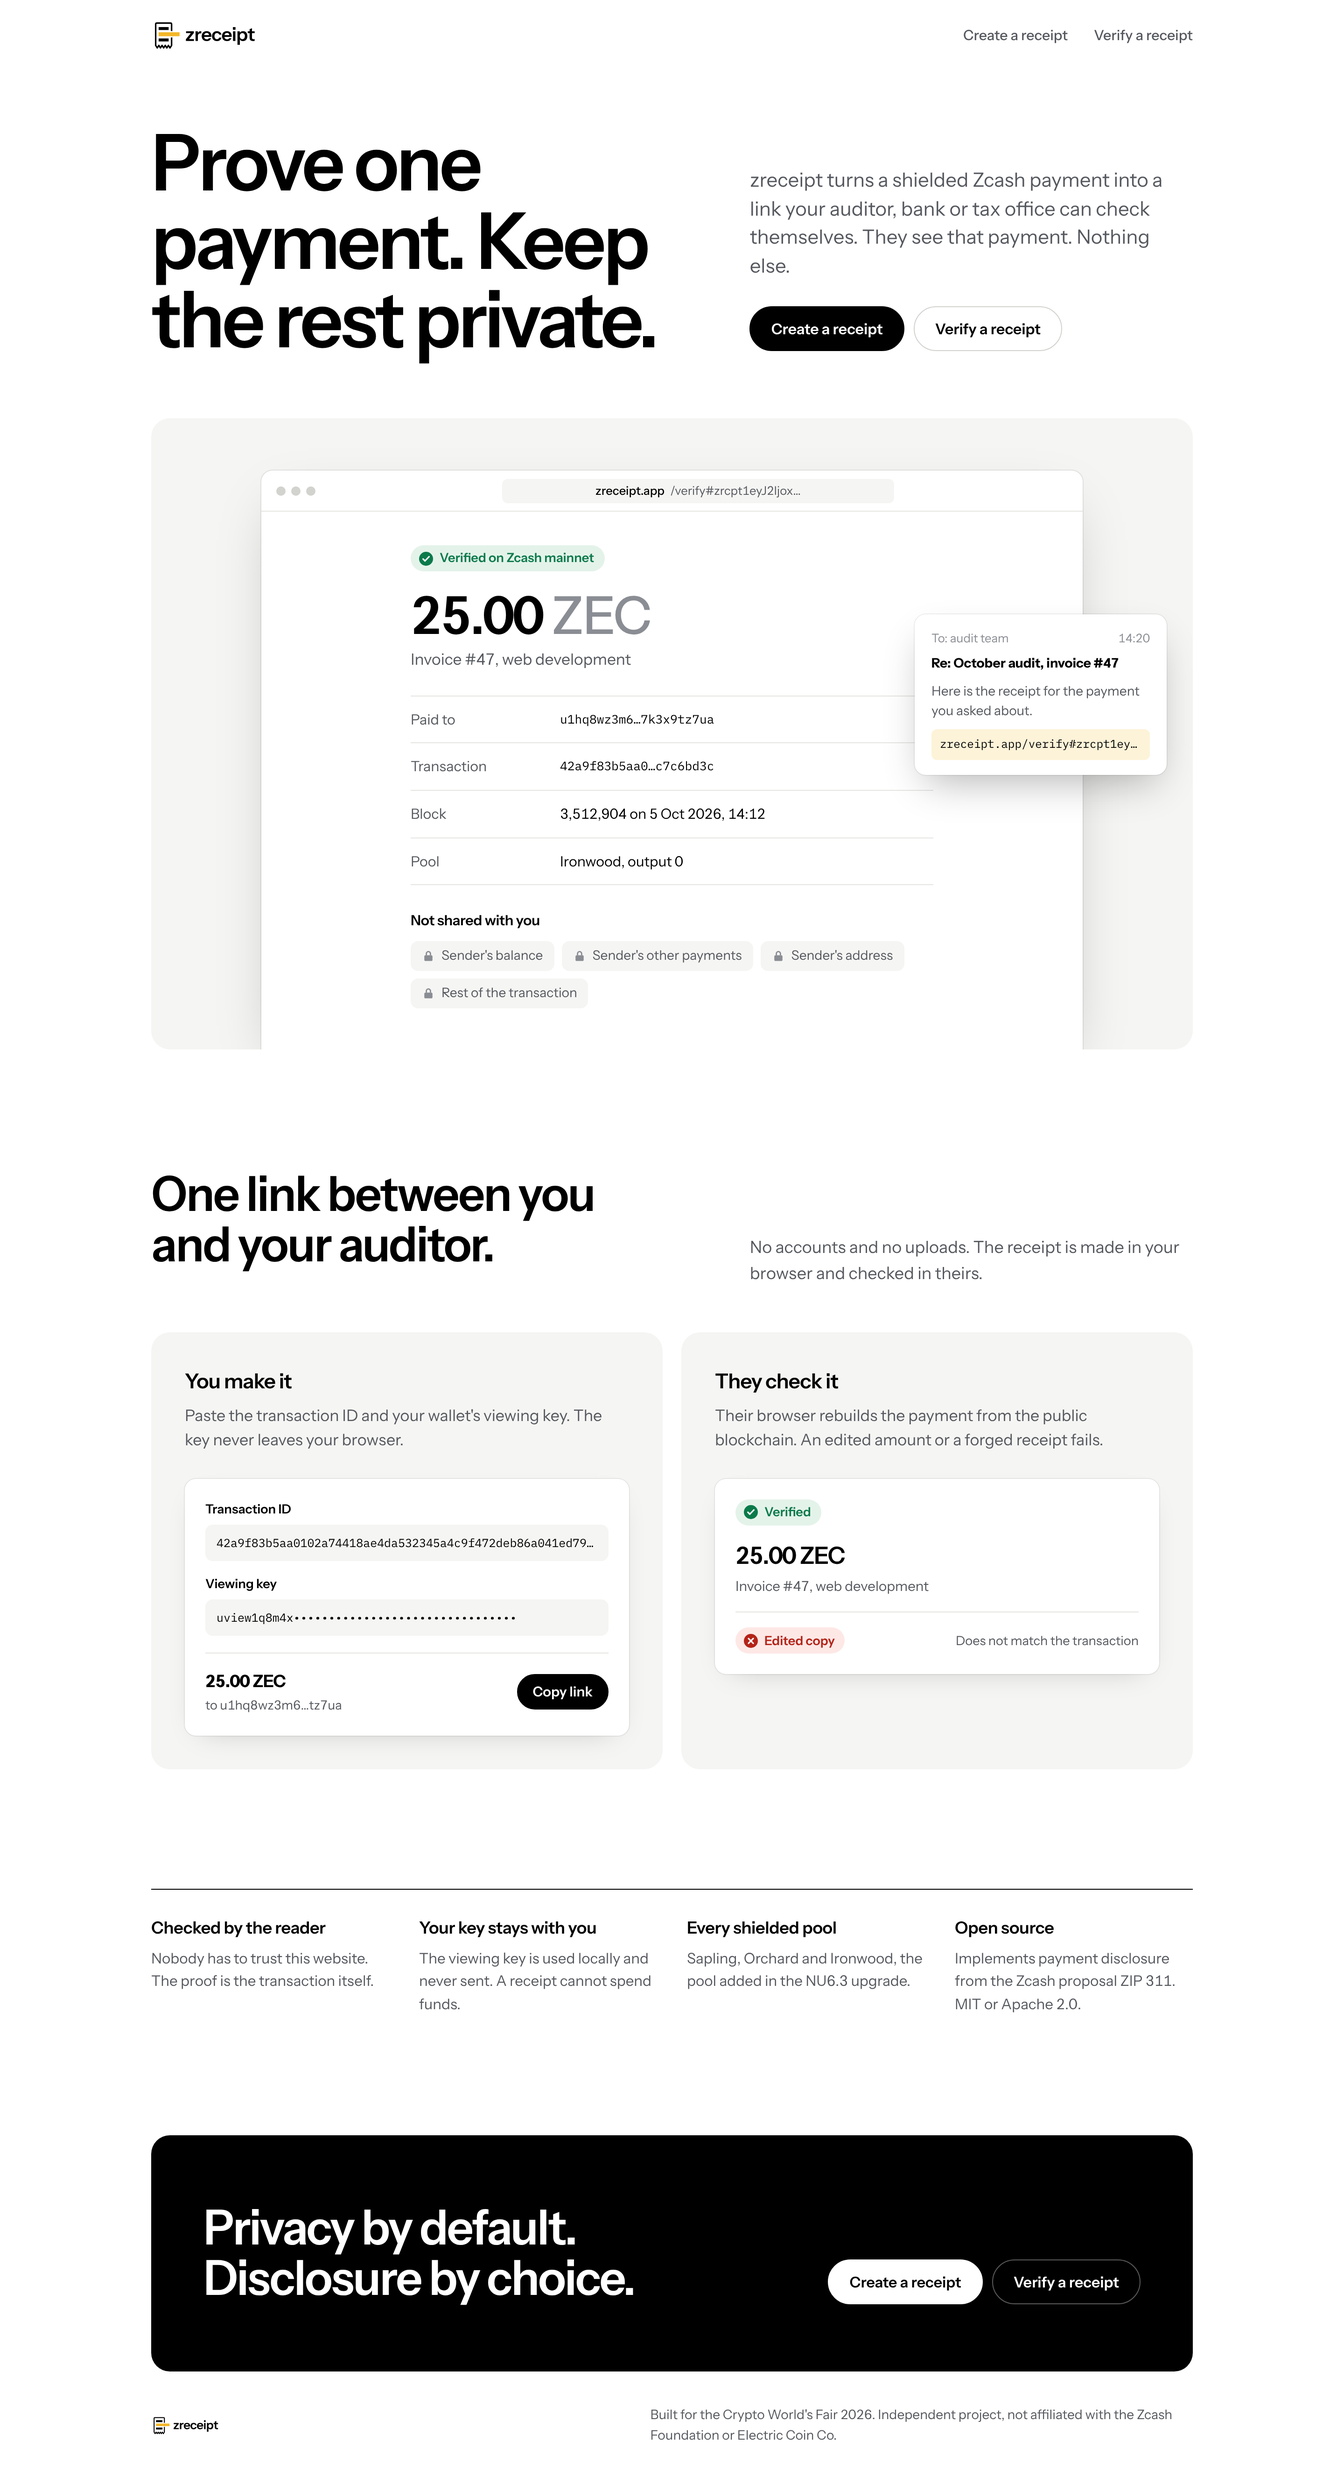
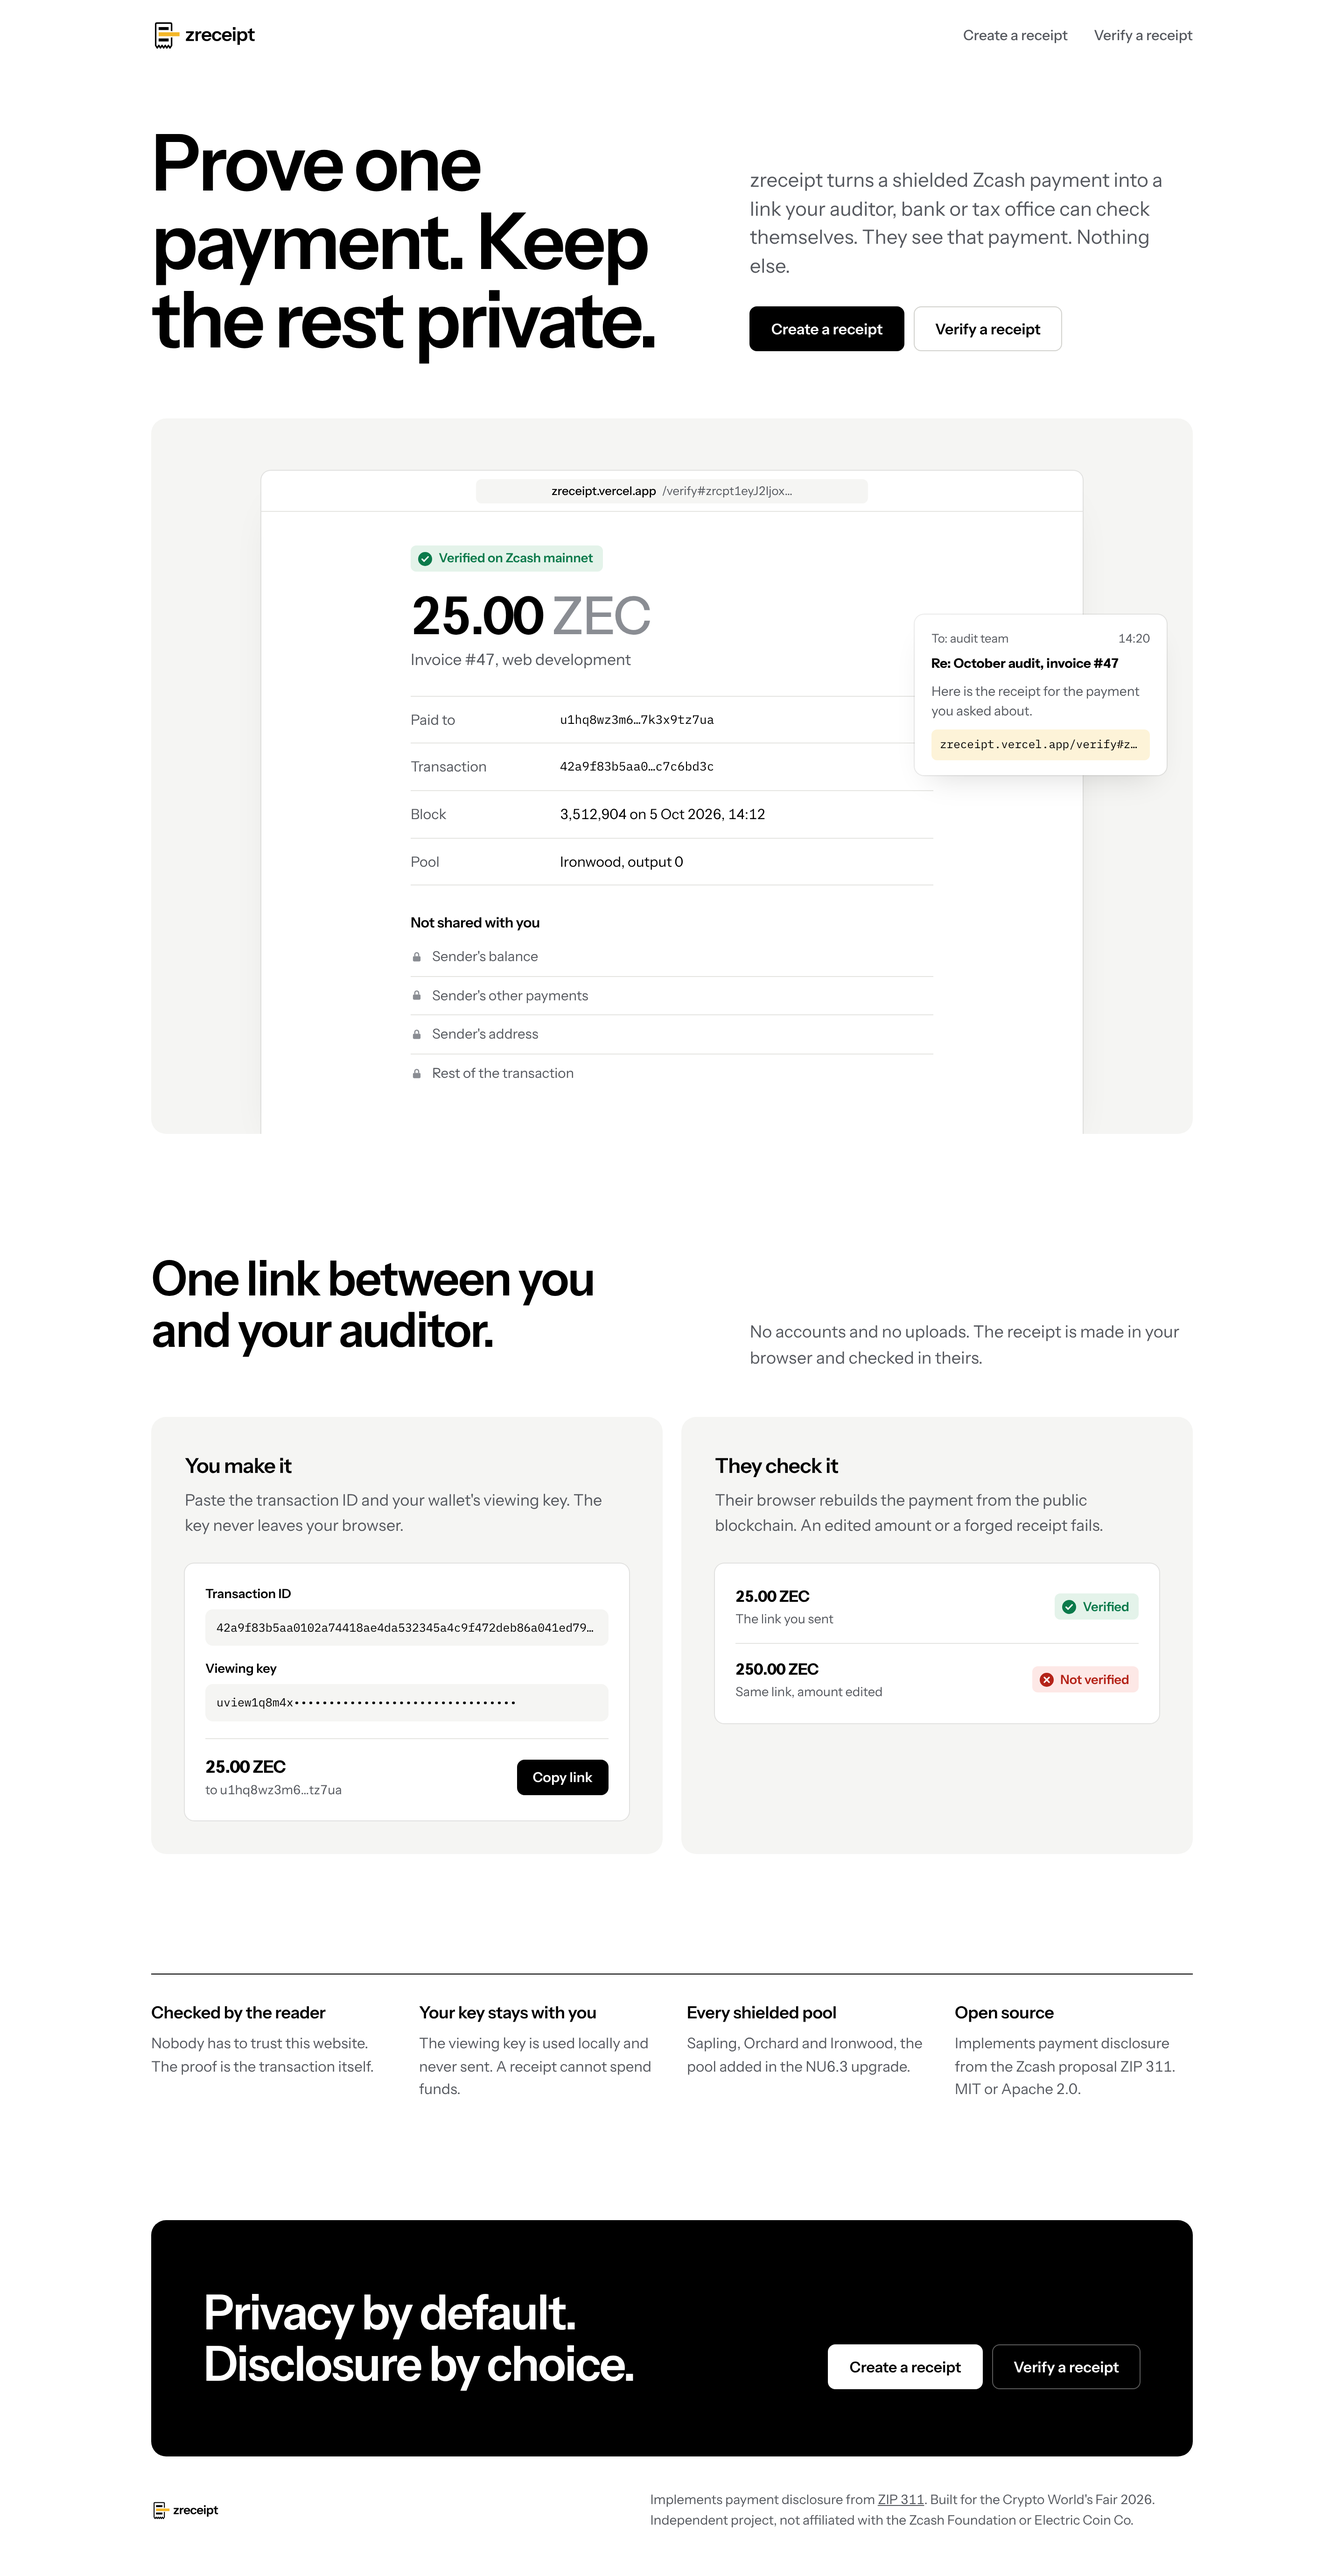
Design review fixes: anti-slop, critique and copy pass
Claude-Session: https://claude.ai/code/session_01WNNdu1QNiGJwuGxVZsEtMv

diff --git a/web/style.css b/web/style.css
@@ -54,7 +54,7 @@ p { margin: 0 0 14px; max-width: 60ch; }
 
 /* ---------- Buttons ---------- */
 .actions { display: flex; gap: 10px; flex-wrap: wrap; }
-.btn { display: inline-flex; align-items: center; justify-content: center; height: 48px; padding: 0 22px; border-radius: 999px; border: 1px solid var(--text); background: var(--text); color: var(--bg); font: 600 1rem var(--sans); text-decoration: none; cursor: pointer; transition: opacity 120ms; }
+.btn { display: inline-flex; align-items: center; justify-content: center; height: 48px; padding: 0 22px; border-radius: 8px; border: 1px solid var(--text); background: var(--text); color: var(--bg); font: 600 1rem var(--sans); text-decoration: none; cursor: pointer; transition: opacity 120ms; }
 .btn:hover { opacity: 0.82; }
 .btn.secondary { background: transparent; color: var(--text); border-color: var(--border-2); }
 .btn.secondary:hover { opacity: 1; border-color: var(--text); }
@@ -68,28 +68,26 @@ p { margin: 0 0 14px; max-width: 60ch; }
 @media (max-width: 900px) { .hero-head { grid-template-columns: minmax(0, 1fr); gap: 28px; } }
 
 /* Stage: the real product, on a quiet surface */
-.stage { position: relative; margin-top: 64px; background: var(--surface); border-radius: 20px; padding: 56px 56px 0; overflow: hidden; }
+.stage { position: relative; margin-top: 64px; background: var(--surface); border-radius: 16px; padding: 56px 56px 0; overflow: hidden; }
 @media (max-width: 760px) { .stage { padding: 20px 14px 0; margin-top: 44px; border-radius: 14px; } }
 
-.window { position: relative; max-width: 880px; margin: 0 auto; background: var(--bg); border-radius: 12px 12px 0 0; box-shadow: 0 0 0 1px rgba(0,0,0,.07), 0 24px 60px -20px rgba(0,0,0,.25); overflow: hidden; }
+.window { position: relative; max-width: 880px; margin: 0 auto; background: var(--bg); border-radius: 10px 10px 0 0; box-shadow: 0 0 0 1px rgba(0,0,0,.08), 0 24px 48px -24px rgba(0,0,0,.14); overflow: hidden; }
 .window .bar { display: flex; align-items: center; gap: 14px; height: 44px; padding: 0 16px; border-bottom: 1px solid var(--border); }
-.window .dots { display: flex; gap: 6px; }
-.window .dots i { width: 10px; height: 10px; border-radius: 50%; background: var(--border-2); }
 .window .url { flex: 1; max-width: 420px; margin: 0 auto; height: 26px; border-radius: 6px; background: var(--surface); display: flex; align-items: center; justify-content: center; gap: 6px; font-size: 0.8rem; color: var(--text-2); white-space: nowrap; overflow: hidden; padding: 0 12px; }
 .window .url b { color: var(--text); font-weight: 500; }
 .window .body { padding: 36px 44px 44px; }
-@media (max-width: 760px) { .window .body { padding: 22px 18px 26px; } .window .dots { display: none; } }
+@media (max-width: 760px) { .window .body { padding: 22px 18px 26px; } }
 
 /* The share message that sits over the window */
-.message { position: absolute; right: 28px; top: 210px; width: 270px; background: var(--bg); border-radius: 12px; box-shadow: 0 0 0 1px rgba(0,0,0,.06), 0 18px 40px -12px rgba(0,0,0,.3); padding: 16px 18px; font-size: 0.88rem; z-index: 2; }
-.message .from { display: flex; justify-content: space-between; color: var(--text-3); font-size: 0.8rem; margin-bottom: 6px; }
+.message { position: absolute; right: 28px; top: 210px; width: 270px; background: var(--bg); border-radius: 10px; box-shadow: 0 0 0 1px rgba(0,0,0,.08), 0 16px 32px -16px rgba(0,0,0,.16); padding: 16px 18px; font-size: 0.88rem; z-index: 2; }
+.message .from { display: flex; justify-content: space-between; color: var(--text-2); font-size: 0.8rem; margin-bottom: 6px; }
 .message p { margin: 0 0 8px; }
 .message .link { display: block; font-family: var(--mono); font-size: 0.76rem; color: var(--text); background: var(--yellow-soft); border-radius: 6px; padding: 7px 9px; white-space: nowrap; overflow: hidden; text-overflow: ellipsis; text-decoration: none; }
 @media (max-width: 1080px) { .message { display: none; } }
 
 /* ---------- Receipt result (used in the hero and on verify.html) ---------- */
 .result { max-width: 560px; margin-left: auto; margin-right: auto; }
-.badge { display: inline-flex; align-items: center; gap: 7px; white-space: nowrap; flex: none; height: 28px; padding: 0 11px 0 9px; border-radius: 999px; font-size: 0.85rem; font-weight: 600; background: var(--ok-soft); color: var(--ok); }
+.badge { display: inline-flex; align-items: center; gap: 7px; white-space: nowrap; flex: none; height: 28px; padding: 0 10px 0 8px; border-radius: 6px; font-size: 0.85rem; font-weight: 600; background: var(--ok-soft); color: var(--ok); }
 .badge svg { width: 15px; height: 15px; }
 .badge.bad { background: var(--bad-soft); color: var(--bad); }
 .result .amount { font-size: clamp(2.5rem, 6vw, 3.5rem); font-weight: 600; letter-spacing: -0.03em; line-height: 1; margin: 18px 0 6px; }
@@ -103,11 +101,20 @@ p { margin: 0 0 14px; max-width: 60ch; }
 .rows dd a { text-decoration-color: var(--border-2); text-underline-offset: 3px; }
 @media (max-width: 560px) { .rows > div { grid-template-columns: minmax(0, 1fr); gap: 2px; } }
 
-.hidden-list { margin-top: 26px; }
-.hidden-list h3 { font-size: 0.95rem; margin-bottom: 10px; }
-.hidden-list ul { list-style: none; margin: 0; padding: 0; display: flex; flex-wrap: wrap; gap: 8px; }
-.hidden-list li { display: inline-flex; align-items: center; gap: 7px; height: 32px; padding: 0 12px; border-radius: 8px; background: var(--surface); font-size: 0.88rem; color: var(--text-2); }
-.hidden-list li svg { width: 14px; height: 14px; color: var(--text-3); }
+.hidden-list { margin-top: 28px; }
+.hidden-list h3 { font-size: 0.95rem; margin-bottom: 4px; }
+.hidden-list ul { list-style: none; margin: 0; padding: 0; }
+.hidden-list li { display: flex; align-items: center; gap: 10px; padding: 9px 0; border-bottom: 1px solid var(--border); font-size: 0.92rem; color: var(--text-2); }
+.hidden-list li:last-child { border-bottom: 0; }
+.hidden-list li svg { width: 13px; height: 13px; color: var(--text-3); flex: none; }
+
+/* Original vs edited link, in the "they check it" panel */
+.check-row { display: flex; align-items: center; justify-content: space-between; gap: 14px; padding: 14px 0; border-bottom: 1px solid var(--border); }
+.check-row:first-child { padding-top: 0; }
+.check-row:last-child { border-bottom: 0; padding-bottom: 0; }
+.check-row .what { min-width: 0; }
+.check-row .what strong { display: block; font-size: 1.05rem; letter-spacing: -0.015em; }
+.check-row .what span { font-size: 0.85rem; color: var(--text-2); }
 
 /* ---------- Sections ---------- */
 .section { padding: 128px 0 0; }
@@ -119,11 +126,11 @@ p { margin: 0 0 14px; max-width: 60ch; }
 /* Two sides of one receipt */
 .sides { display: grid; grid-template-columns: minmax(0, 1fr) minmax(0, 1fr); gap: 20px; }
 @media (max-width: 900px) { .sides { grid-template-columns: minmax(0, 1fr); } }
-.side-panel { background: var(--surface); border-radius: 20px; padding: 36px; display: flex; flex-direction: column; gap: 28px; }
+.side-panel { background: var(--surface); border-radius: 16px; padding: 36px; display: flex; flex-direction: column; gap: 28px; }
 @media (max-width: 640px) { .side-panel { padding: 22px 16px; border-radius: 14px; } }
 .side-panel .caption h3 { font-size: 1.375rem; letter-spacing: -0.02em; }
 .side-panel .caption p { color: var(--text-2); margin: 0; }
-.card { background: var(--bg); border-radius: 12px; box-shadow: 0 0 0 1px rgba(0,0,0,.06), 0 10px 30px -18px rgba(0,0,0,.25); padding: 22px; font-size: 0.92rem; }
+.card { background: var(--bg); border-radius: 10px; box-shadow: 0 0 0 1px rgba(0,0,0,.08); padding: 22px; font-size: 0.92rem; }
 .field { margin-bottom: 14px; }
 .field .lbl { font-weight: 600; font-size: 0.85rem; margin-bottom: 6px; }
 .field .val { font-family: var(--mono); font-size: 0.78rem; background: var(--surface); border-radius: 8px; padding: 10px 12px; white-space: nowrap; overflow: hidden; text-overflow: ellipsis; }
@@ -138,7 +145,7 @@ p { margin: 0 0 14px; max-width: 60ch; }
 @media (max-width: 560px) { .facts { grid-template-columns: 1fr; gap: 24px; } }
 
 /* Closing */
-.closing { margin-top: 128px; background: var(--text); color: var(--bg); border-radius: 20px; padding: 72px 56px; display: grid; grid-template-columns: minmax(0, 1.4fr) auto; gap: 32px; align-items: end; }
+.closing { margin-top: 128px; background: var(--text); color: var(--bg); border-radius: 16px; padding: 72px 56px; display: grid; grid-template-columns: minmax(0, 1.4fr) auto; gap: 32px; align-items: end; }
 .closing h2 { margin: 0; max-width: 14ch; }
 .closing .btn { background: var(--bg); color: var(--text); border-color: var(--bg); }
 .closing .btn.secondary { background: transparent; color: var(--bg); border-color: rgba(255,255,255,.35); }
@@ -156,7 +163,7 @@ footer.site p { margin: 0; max-width: 62ch; }
 form { margin-top: 36px; display: grid; gap: 22px; }
 label { display: block; font-weight: 600; font-size: 0.95rem; margin-bottom: 7px; }
 .hint { display: block; font-weight: 400; font-size: 0.88rem; color: var(--text-2); margin-top: 2px; }
-input[type="text"], textarea { width: 100%; font: 400 0.9rem var(--mono); color: var(--text); background: var(--bg); border: 1px solid var(--border-2); border-radius: 10px; padding: 13px 14px; }
+input[type="text"], textarea { width: 100%; font: 400 0.9rem var(--mono); color: var(--text); background: var(--bg); border: 1px solid var(--border-2); border-radius: 8px; padding: 13px 14px; }
 textarea { min-height: 96px; resize: vertical; word-break: break-all; }
 input:focus, textarea:focus { border-color: var(--text); outline: none; box-shadow: 0 0 0 3px rgba(0,0,0,.08); }
 fieldset.inline { border: 0; padding: 0; margin: 0; }

diff --git a/web/index.html b/web/index.html
@@ -36,7 +36,7 @@
 
       <div class="stage">
         <div class="window" role="img" aria-label="The verify page showing a 25 ZEC payment verified on Zcash mainnet">
-          <div class="bar"><div class="dots"><i></i><i></i><i></i></div><div class="url"><b>zreceipt.app</b>/verify#zrcpt1eyJ2Ijox…</div></div>
+          <div class="bar"><div class="url"><b>zreceipt.vercel.app</b>/verify#zrcpt1eyJ2Ijox…</div></div>
           <div class="body">
             <div class="result">
               <span class="badge"><svg viewBox="0 0 16 16" fill="none" aria-hidden="true"><circle cx="8" cy="8" r="8" fill="currentColor"/><path d="M4.6 8.2l2.2 2.2 4.6-4.8" stroke="#fff" stroke-width="1.7" stroke-linecap="round" stroke-linejoin="round"/></svg>Verified on Zcash mainnet</span>
@@ -65,7 +65,7 @@
           <div class="from"><span>To: audit team</span><span>14:20</span></div>
           <p><strong>Re: October audit, invoice #47</strong></p>
           <p class="muted">Here is the receipt for the payment you asked about.</p>
-          <span class="link">zreceipt.app/verify#zrcpt1eyJ2Ijox…</span>
+          <span class="link">zreceipt.vercel.app/verify#zrcpt1eyJ2…</span>
         </div>
       </div>
     </section>
@@ -96,12 +96,13 @@
             <p>Their browser rebuilds the payment from the public blockchain. An edited amount or a forged receipt fails.</p>
           </div>
           <div class="card" aria-hidden="true">
-            <span class="badge"><svg viewBox="0 0 16 16" fill="none"><circle cx="8" cy="8" r="8" fill="currentColor"/><path d="M4.6 8.2l2.2 2.2 4.6-4.8" stroke="#fff" stroke-width="1.7" stroke-linecap="round" stroke-linejoin="round"/></svg>Verified</span>
-            <p style="font-size:1.6rem;font-weight:600;letter-spacing:-0.03em;margin:12px 0 2px">25.00 ZEC</p>
-            <p class="muted" style="margin:0 0 16px">Invoice #47, web development</p>
-            <div class="found" style="margin-top:0">
-              <span class="badge bad"><svg viewBox="0 0 16 16" fill="none"><circle cx="8" cy="8" r="8" fill="currentColor"/><path d="M5.3 5.3l5.4 5.4M10.7 5.3l-5.4 5.4" stroke="#fff" stroke-width="1.7" stroke-linecap="round"/></svg>Edited copy</span>
-              <span class="muted">Does not match the transaction</span>
+            <div class="check-row">
+              <div class="what"><strong>25.00 ZEC</strong><span>The link you sent</span></div>
+              <span class="badge"><svg viewBox="0 0 16 16" fill="none"><circle cx="8" cy="8" r="8" fill="currentColor"/><path d="M4.6 8.2l2.2 2.2 4.6-4.8" stroke="#fff" stroke-width="1.7" stroke-linecap="round" stroke-linejoin="round"/></svg>Verified</span>
+            </div>
+            <div class="check-row">
+              <div class="what"><strong>250.00 ZEC</strong><span>Same link, amount edited</span></div>
+              <span class="badge bad"><svg viewBox="0 0 16 16" fill="none"><circle cx="8" cy="8" r="8" fill="currentColor"/><path d="M5.3 5.3l5.4 5.4M10.7 5.3l-5.4 5.4" stroke="#fff" stroke-width="1.7" stroke-linecap="round"/></svg>Not verified</span>
             </div>
           </div>
         </div>
@@ -128,7 +129,7 @@
 
   <footer class="site">
     <img src="brand/zreceipt-logo.svg" alt="zreceipt" width="236" height="64">
-    <p>Built for the Crypto World's Fair 2026. Independent project, not affiliated with the Zcash Foundation or Electric Coin Co.</p>
+    <p>Implements payment disclosure from <a href="https://zips.z.cash/zip-0311">ZIP 311</a>. Built for the Crypto World's Fair 2026. Independent project, not affiliated with the Zcash Foundation or Electric Coin Co.</p>
   </footer>
 </div>
 </body>

diff --git a/web/create.html b/web/create.html
@@ -110,7 +110,7 @@
       copy.textContent = "Copied";
       setTimeout(() => (copy.textContent = "Copy link"), 1800);
     });
-    const open = el("a", { class: "btn secondary small-btn", href: link, target: "_blank", rel: "noopener", text: "Open" });
+    const open = el("a", { class: "btn secondary small-btn", href: link, target: "_blank", rel: "noopener", text: "Open receipt" });
 
     const rows = el("dl", { class: "rows" });
     const row = (k, v, mono) => { if (v) rows.append(el("div", {}, el("dt", { text: k }), el("dd", mono ? { class: "mono", text: v } : { text: v }))); };
